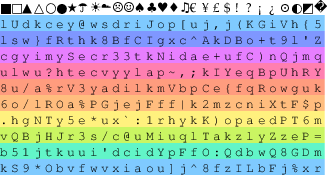
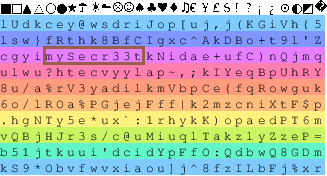
highlight passwords in output images

diff --git a/README.md b/README.md
@@ -19,3 +19,6 @@ Similarly, you can provide multiple (up to 10) passwords, like the following:
     generate_passwordcard.py passw0rd 0 0 4n0th3r 3 5
 
 ![Password Card including user provided passwords](images/passwordcard3.png)
+
+
+Please make sure to use passwords that have high entropy, otherwise anybody can spot them in the random background...
